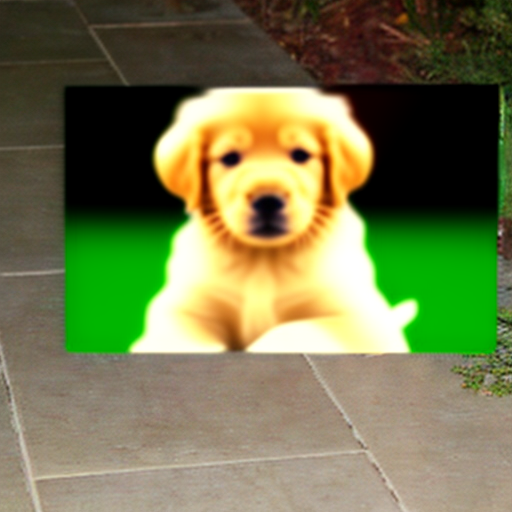
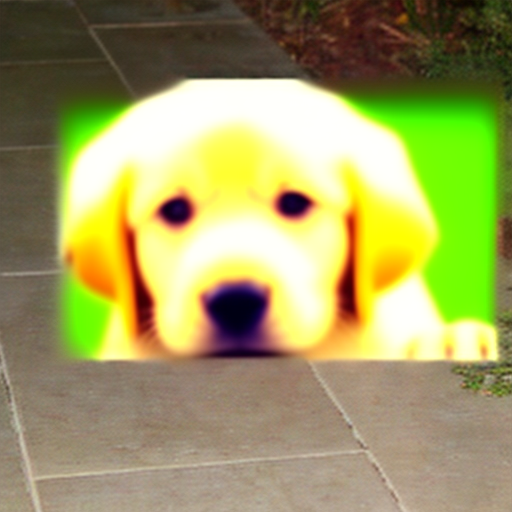
run with big dilation

diff --git a/improved_pipeline.py b/improved_pipeline.py
@@ -12,7 +12,8 @@ def mask_op(image, dilate_kernel, kernel_size):
     if dilate_kernel != 1:
         kernel = np.ones((dilate_kernel, dilate_kernel), np.uint8)
         mask_np = cv.dilate(mask_np, kernel, iterations=1)
-    mask_np = cv.GaussianBlur(mask_np, (kernel_size, kernel_size), 0)
+    if kernel_size != 1:
+        mask_np = cv.GaussianBlur(mask_np, (kernel_size, kernel_size), 0)
     return Image.fromarray(mask_np).resize((64, 64), Image.LANCZOS)
 
 
